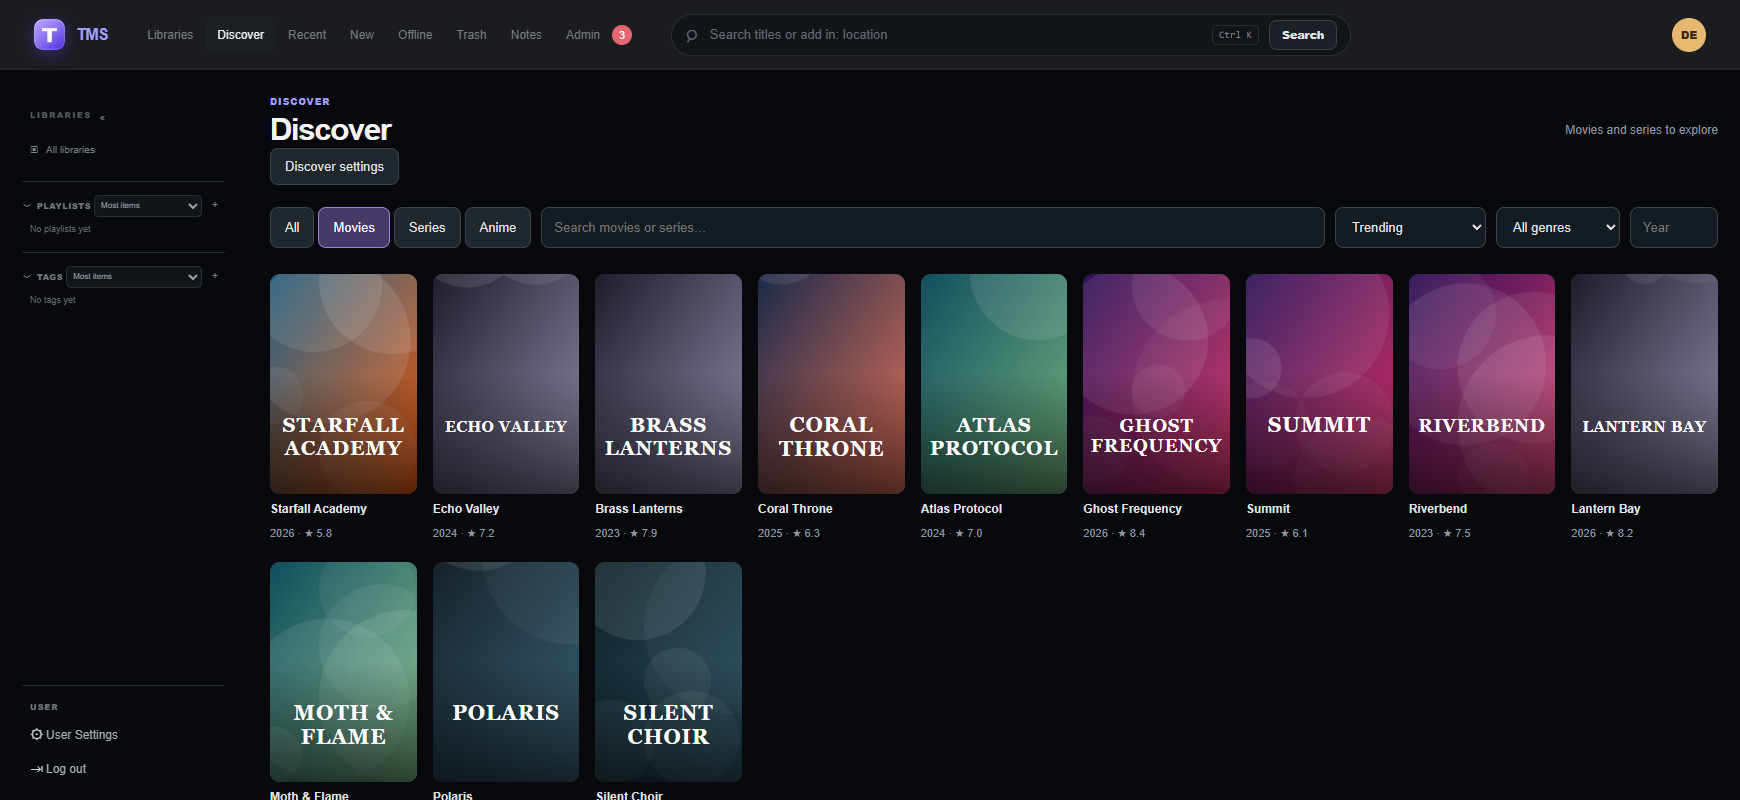
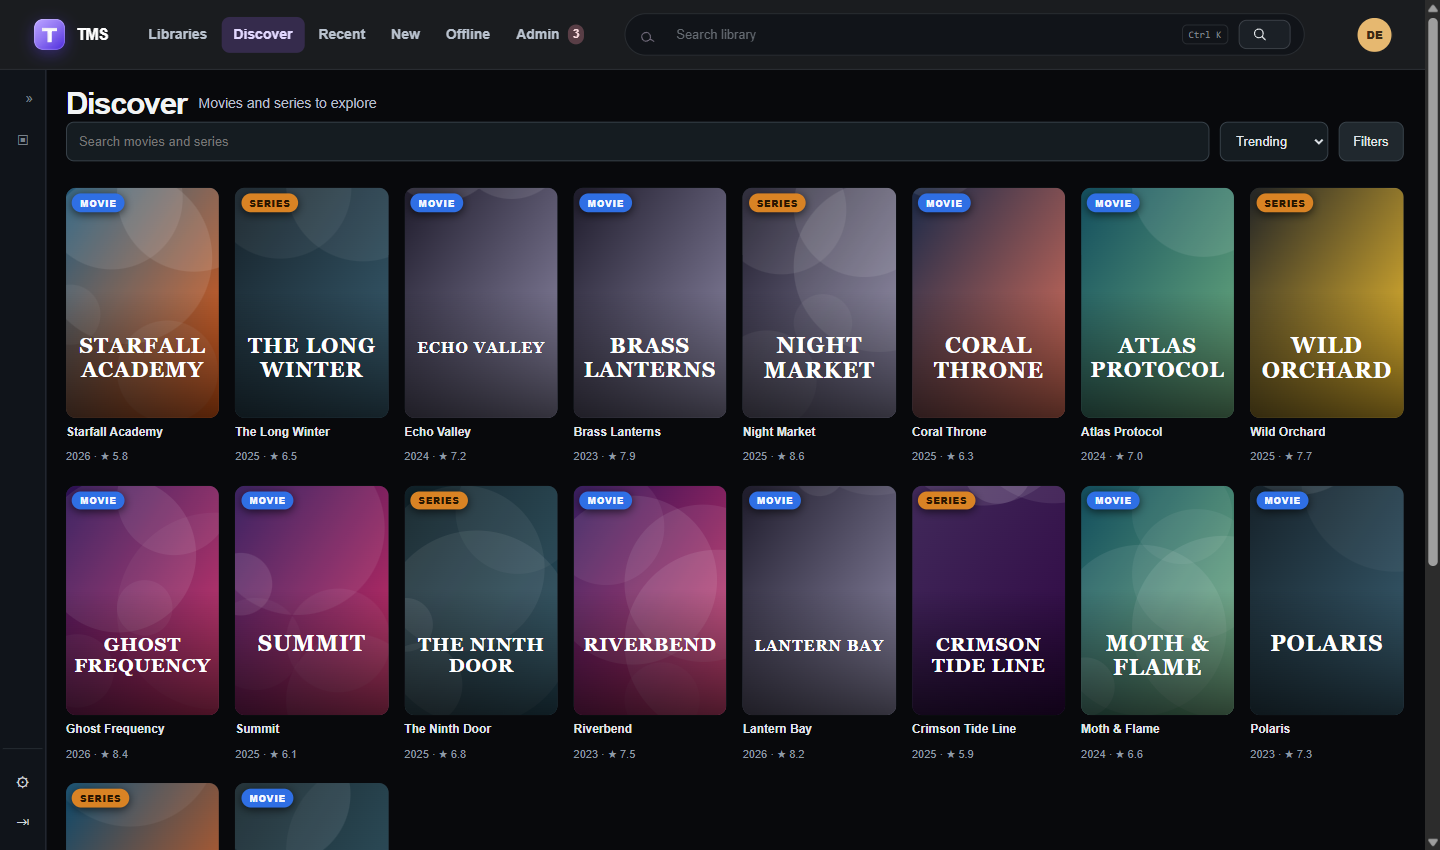
Refresh TMS portfolio screenshots with current demo UI

diff --git a/src/data/portfolio.ts b/src/data/portfolio.ts
@@ -61,11 +61,9 @@ export const portfolio: PortfolioData = {
     {
       name: "Personal Media Server",
       images: [
-        { src: "projects/tms-library.png", alt: "Movies and TV library" },
-        { src: "projects/tms-discover.png", alt: "Discovery catalog" },
-        { src: "projects/tms-seasons.png", alt: "Season browsing" },
-        { src: "projects/tms-episodes.png", alt: "Episode browser" },
-        { src: "projects/tms-music.png", alt: "Music library" },
+        { src: "projects/tms-library.png", alt: "Movies and TV library (demo)" },
+        { src: "projects/tms-discover.png", alt: "Discovery catalog (demo)" },
+        { src: "projects/tms-music.png", alt: "Music library (demo)" },
       ],
       description:
         "A private place to organize, discover, and stream movies, TV, and music across devices.",
